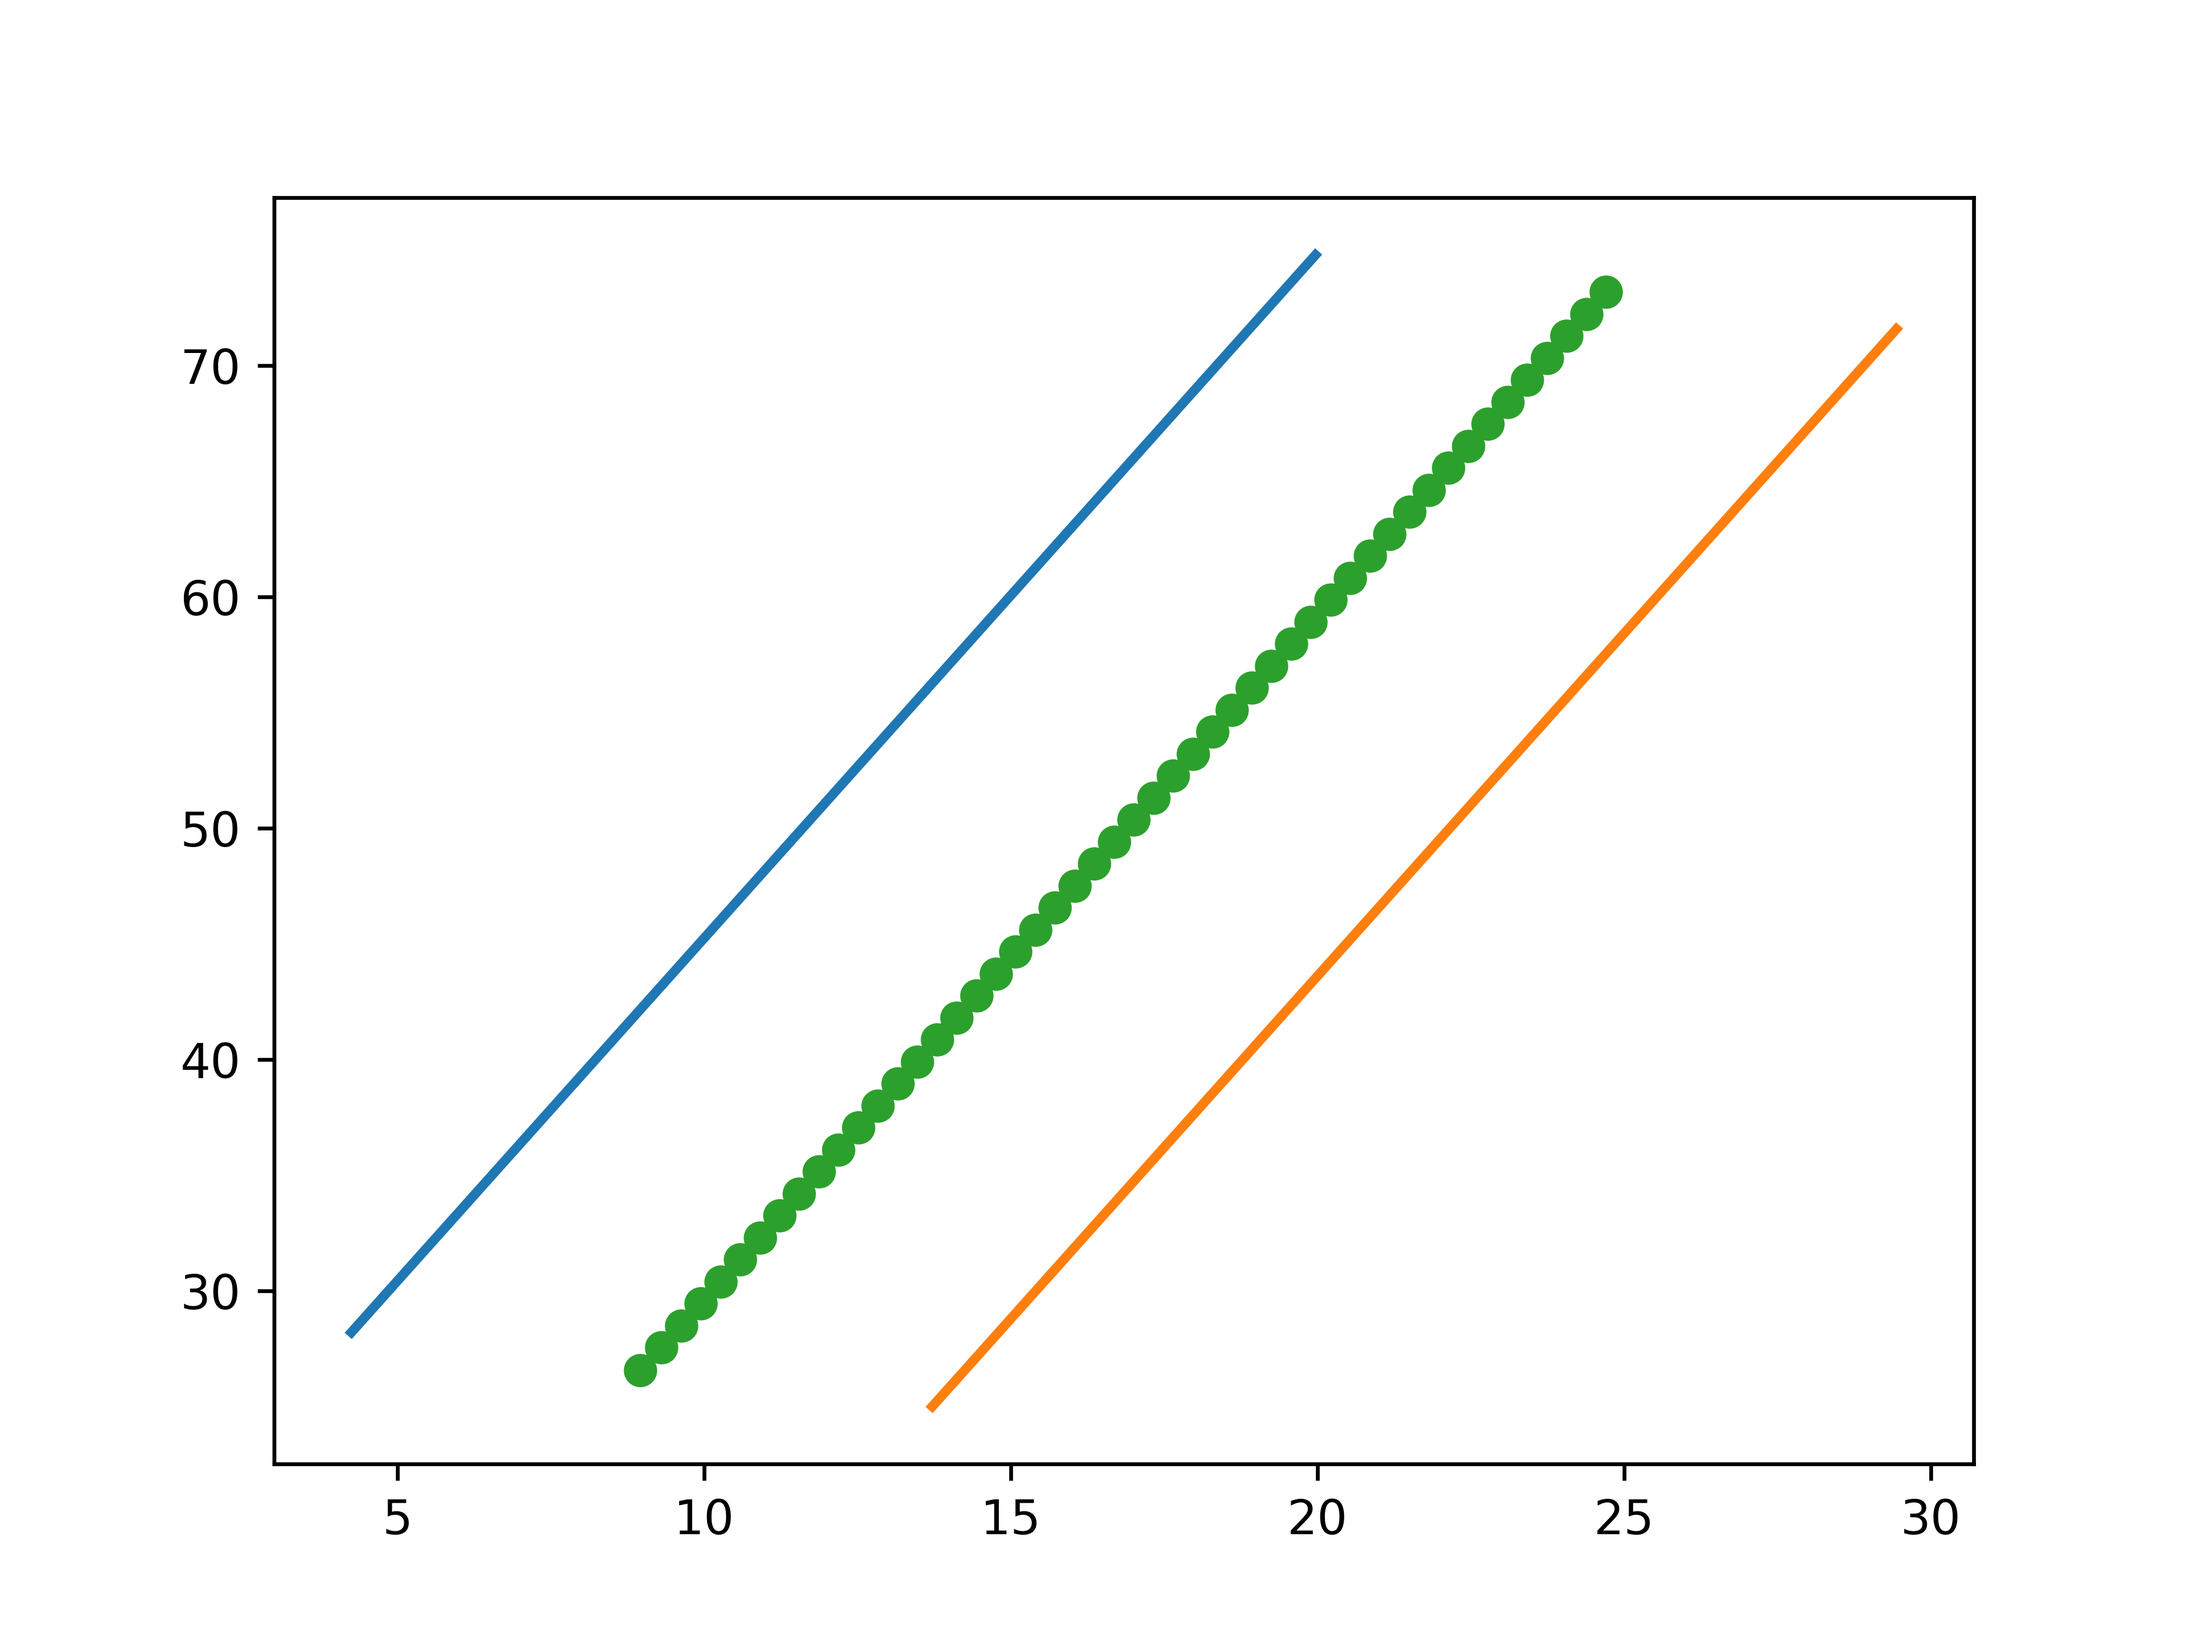
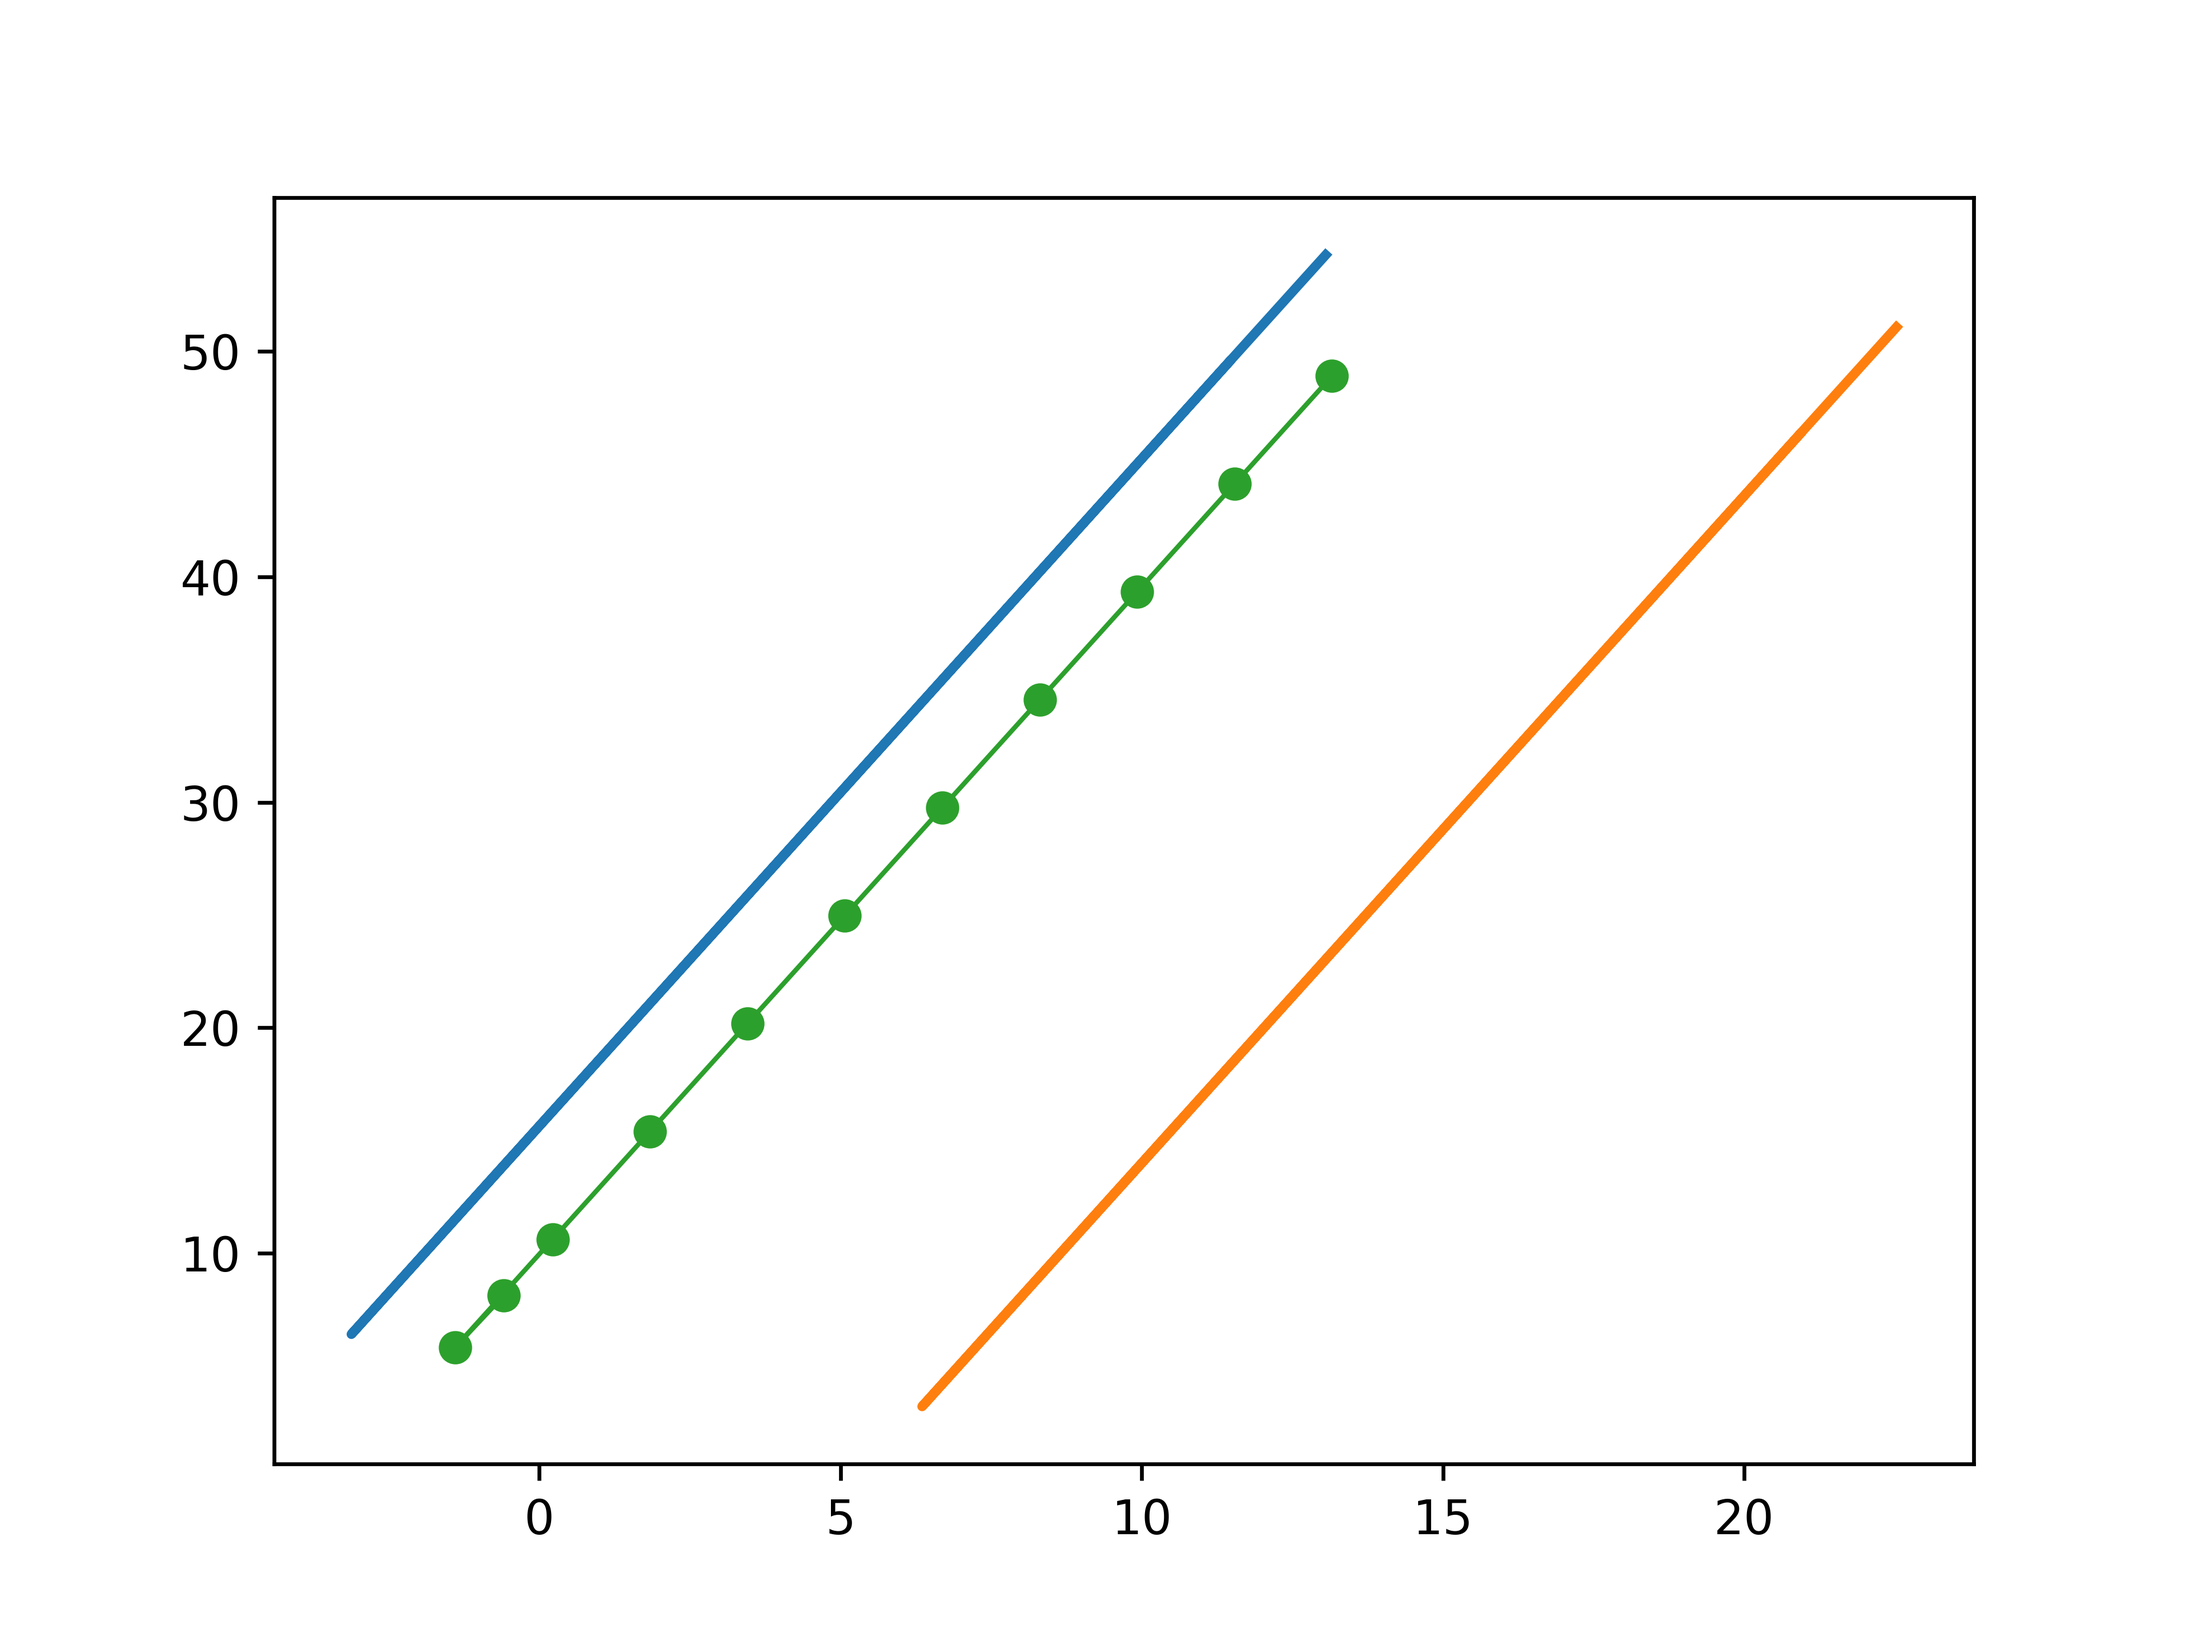
fixing shortest path boundary mapping

diff --git a/src/planning/path_planning/path_planning/trajectory_shortest_path.py b/src/planning/path_planning/path_planning/trajectory_shortest_path.py
@@ -27,8 +27,8 @@ class shortest_path(NODE):
         self.declare_parameters(
             namespace='',
             parameters=[
-                ('plot', False),
-                ('save_track', False),
+                ('plot', True),
+                ('save_track', True),
             ]
         )
 
@@ -46,28 +46,35 @@ class shortest_path(NODE):
 
     def set_boundaries(self, msg:ConeMap):
         innerboundary, outerboundary, car_position, oc, ic = self.get_boundaries(msg.cones)
+        # saving track 
+        if self._save_track:
+            self.save_track(innerboundary, outerboundary)
+        innerboundary.reverse()
+        outerboundary.reverse()
         # smaller (incl. negative) x, y come before 
         innerboundary = np.array(innerboundary)
         outerboundary = np.array(outerboundary)
+
+        self.get_logger().info(f"bound: {innerboundary}")
         
-        if ic > oc: innerboundary = innerboundary[:(oc-ic)] 
-        if oc > ic: outerboundary = outerboundary[:(ic-oc)]
+        # if ic > oc: innerboundary = innerboundary[:(oc-ic)] 
+        # if oc > ic: outerboundary = outerboundary[:(ic-oc)]
 
         # transform the points
-        innerboundary = list(map(lambda P: self.get_transformed_point(msg, P), innerboundary))
-        outerboundary = list(map(lambda P: self.get_transformed_point(msg, P), outerboundary))
-        car_position = self.get_transformed_point(msg, car_position)
+        # innerboundary = np.array(list(map(lambda P: self.get_transformed_point(msg, P), innerboundary)))
+        # outerboundary = np.array(list(map(lambda P: self.get_transformed_point(msg, P), outerboundary)))
+        # car_position = self.get_transformed_point(msg, car_position)
     
-        # get center line and track widths
-        center_line, track_widths = self.get_center_line(innerboundary, outerboundary)
-        # format as pandas data frame
-        track_info = self.get_track_info(center_line, track_widths)
+        # # get center line and track widths
+        # center_line, track_widths = self.get_center_line(innerboundary, outerboundary)
+        # # format as pandas data frame
+        # track_info = self.get_track_info(center_line, track_widths)
 
         # get shortest path
         print("IMPORTING TRACK")
         # df = TrackMethods.importTrack(track_info=track_info, plot=self._plot)
 
-        df = self.create_track_dataframe(list(innerboundary), list(outerboundary))
+        df = self.create_track_dataframe(innerboundary, outerboundary)
 
         # create brackets
         print("CREATING BRACKETS")
@@ -84,9 +91,14 @@ class shortest_path(NODE):
         print("\nOPTIMAL PATH COMPUTED")
 
         # get steering angle based on current and next point
-        p1 = start_node._xy
-        p2 = start_node._nextNode._xy
-        steering_angle = TrackHelpers.getAngle(p1, p2)
+        p1 = start_node._xy # relative to global
+        self.get_logger().info(f"{p1}")
+        self.get_logger().info(f"{start_node._nextNode._xy}")
+        # p2 = self.get_transformed_point(msg, start_node._nextNode._xy)   # relative to local
+        p2 = start_node._nextNode._xy 
+        self.get_logger().info(f"{p2}")
+        # p2 = start_node._nextNode._xy + start_node._xy
+        steering_angle = TrackHelpers.getAngleRotation(np.array(p1), np.array(p2))
         steering_angle = np.rad2deg(steering_angle)  # convert to degrees
 
         # publish msgs
@@ -100,10 +112,6 @@ class shortest_path(NODE):
         self.best_trajectory_publisher.publish(msg)
 
         self.get_logger().info(f"steering angle published: {steering_angle}")
-
-        # saving track 
-        if self._save_track:
-            self.save_track(df.inner, df.outer)
 
         return
     
@@ -150,10 +158,11 @@ class shortest_path(NODE):
                 fh.close()
     
 
-    def create_track_dataframe(self, innerboundary:list, outerboundary:list):
+    def create_track_dataframe(self, innerboundary:np.array, outerboundary:np.array):
+        up_to = min(len(innerboundary), len(outerboundary)) 
         return pd.DataFrame({
-            "inner": innerboundary,
-            "outer": outerboundary,
+            "inner": list(innerboundary[:up_to]),
+            "outer": list(outerboundary[:up_to]),
         })
 
 
@@ -165,7 +174,7 @@ class shortest_path(NODE):
                 track widths: list of list of widths as [to_left, to_right]
         """
         constant_width = TrackHelpers.getDistance(p1=innerboundary[0], p2=outerboundary[0]) 
-        constant_width = constant_width / 3
+        constant_width = constant_width 
 
         # get center points
         n_points = min(len(innerboundary), len(outerboundary)) #unfortunately not always same number of points

diff --git a/src/planning/path_planning/path_planning/shortest_path/TrackMethods.py b/src/planning/path_planning/path_planning/shortest_path/TrackMethods.py
@@ -196,20 +196,20 @@ def importTrack(track_info:pd.DataFrame=None, trackname:str=None, plot:bool=Fals
 def createBracket(inner_boundary:np.array, outer_boundary:np.array, n_nodes, p_vector=None):
     # get distance
     distance = TrackHelpers.getDistance(inner_boundary, outer_boundary)
-    spacing = distance / n_nodes
-    p_vector = TrackHelpers.getVector(inner_boundary, outer_boundary, True)
+    spacing = distance / (n_nodes+1)
+    p_vector = TrackHelpers.getVector(outer_boundary, inner_boundary, True)
     # angle = 90 * np.pi / 180
     # p_vector = TrackHelpers.getRotatedVector(angle, p_vector)
 
     # list of node coordinates
     new_points = [0]*(n_nodes+2)
     # include boundaries
-    new_points[0] = inner_boundary
-    new_points[-1] = outer_boundary
+    new_points[0] = outer_boundary
+    new_points[-1] = inner_boundary
 
     # loop through number of nodes to create
     for i in range(n_nodes):
-        new_points[i+1] = inner_boundary + ((i+1)*spacing) * p_vector
+        new_points[i+1] = outer_boundary + ((i+1)*spacing) * p_vector
 
     return new_points
 
@@ -238,8 +238,8 @@ def getBrackets(df:pd.DataFrame, n_nodes, plot:bool=False):
             bracketId = i
             xy = P
             velocity = constant_velocity
-            innerDistance = TrackHelpers.getDistance(P, bracket_points[0])
-            outerDistance = TrackHelpers.getDistance(P, bracket_points[-1])
+            innerDistance = TrackHelpers.getDistance(P, bracket_points[-1])
+            outerDistance = TrackHelpers.getDistance(P, bracket_points[0])
             nextNode = np.nan
             cost = np.inf
             # temp_node = Node(bracketId, xy, velocity, innerDistance, outerDistance, nextNode, cost)
@@ -248,8 +248,8 @@ def getBrackets(df:pd.DataFrame, n_nodes, plot:bool=False):
 
         # bracket module
         Id = i
-        innerNode = node_list[0]
-        outerNode = node_list[-1]
+        innerNode = node_list[-1]
+        outerNode = node_list[0]
         width = TrackHelpers.getDistance(node_list[0]._xy, node_list[-1]._xy)
         # NodeList = node_list
         # temp_bracket = Bracket(Id, innerNode, outerNode, width, NodeList)

diff --git a/src/moa/moa_bringup/launch/sim_launch.py b/src/moa/moa_bringup/launch/sim_launch.py
@@ -7,31 +7,14 @@ def generate_launch_description():
         launch_ros.actions.Node(
             package='cone_mapping',
             executable='dbscan',
-            name='listener',
-        ),
-
-        # path generation
-        launch_ros.actions.Node(
-            package='path_planning',
-            executable='trajectory_generation',
-            name='trajectory_generation',
-            parameters=[{'debug': True, 
-                         'timer': 0.5}],
+            name='dbscan',
         ),
 
         # path optimization
         launch_ros.actions.Node(
             package='path_planning',
-            executable='trajectory_optimisation',
-            name='trajectory_optimisation',
-            parameters=[{'debug': True}],
-        ),
-
-        # controller
-        launch_ros.actions.Node(
-            package='moa_controllers',
-            executable='trajectory_follower',
-            name='trajectory_follower',
+            executable='shortest_path',
+            name='shortest_path',
         ),
 
         # path viz

diff --git a/src/planning/path_planning/path_planning/shortest_path/TrackHelpers.py b/src/planning/path_planning/path_planning/shortest_path/TrackHelpers.py
@@ -28,7 +28,7 @@ def getMidPoint(p1:np.array, p2:np.array): return (p2 + p1)/2
 
 
 def getAngle(p1:np.array, p2:np.array):
-    diff = p2-p1
+    diff = p1-p2
     x = diff[0]
     y = diff[1]
 
@@ -46,7 +46,7 @@ def getAngleRotation(v1, v2):
     det = x1*y2 - y1*x2      # Determinant
     angle = np.arctan2(det, dot)  # atan2(y, x) or atan2(sin, cos)
 
-    return angle
+    return min(angle, np.pi-angle)
 
 
 # function getVectorLineIntersection(v1::Vector, p1::Vector,v2::Vector, p2::Vector)
